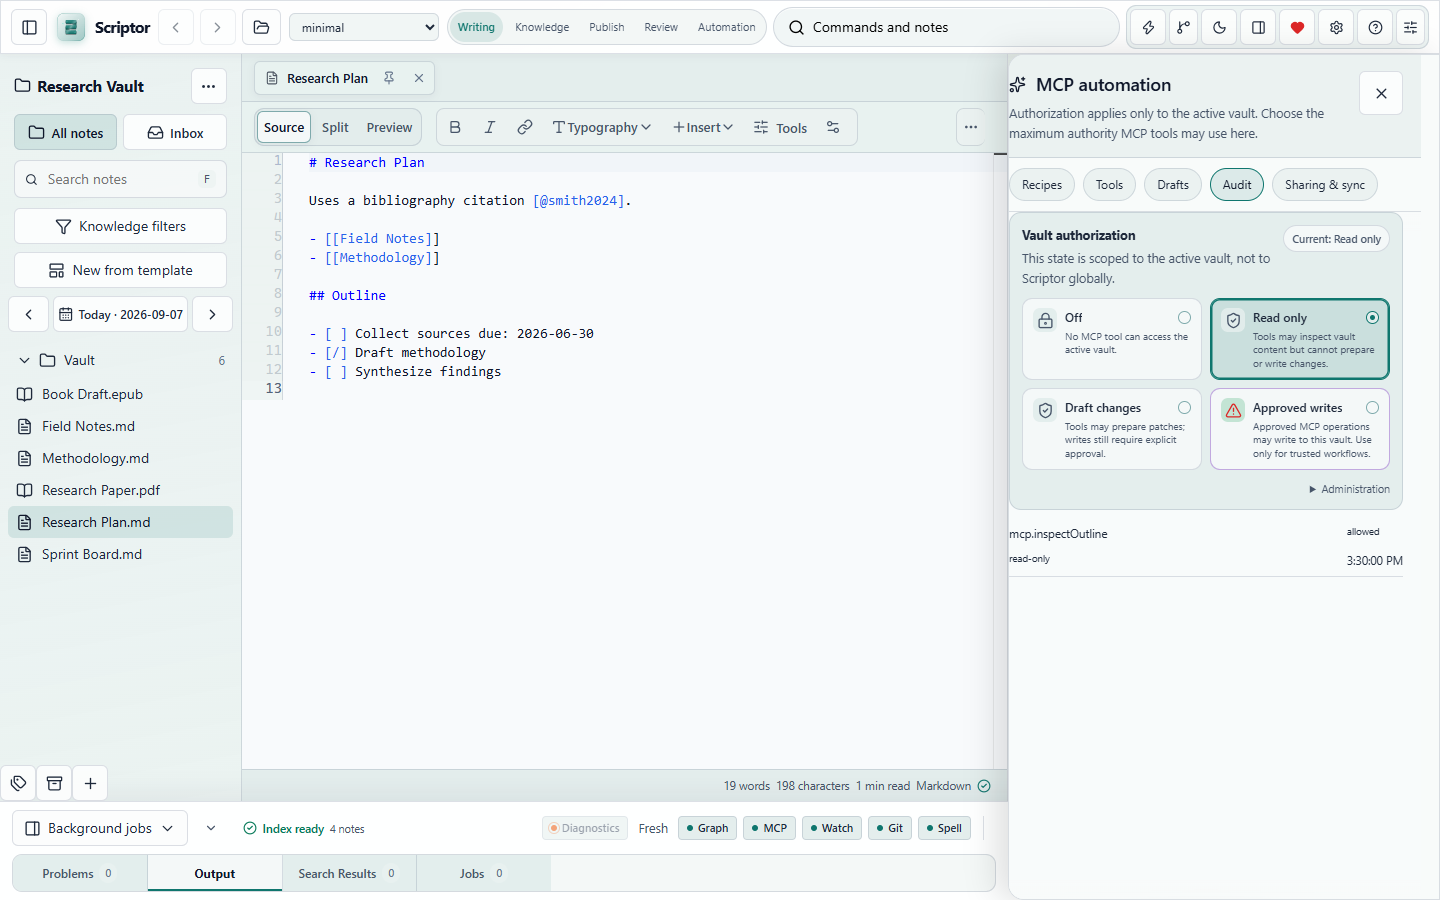
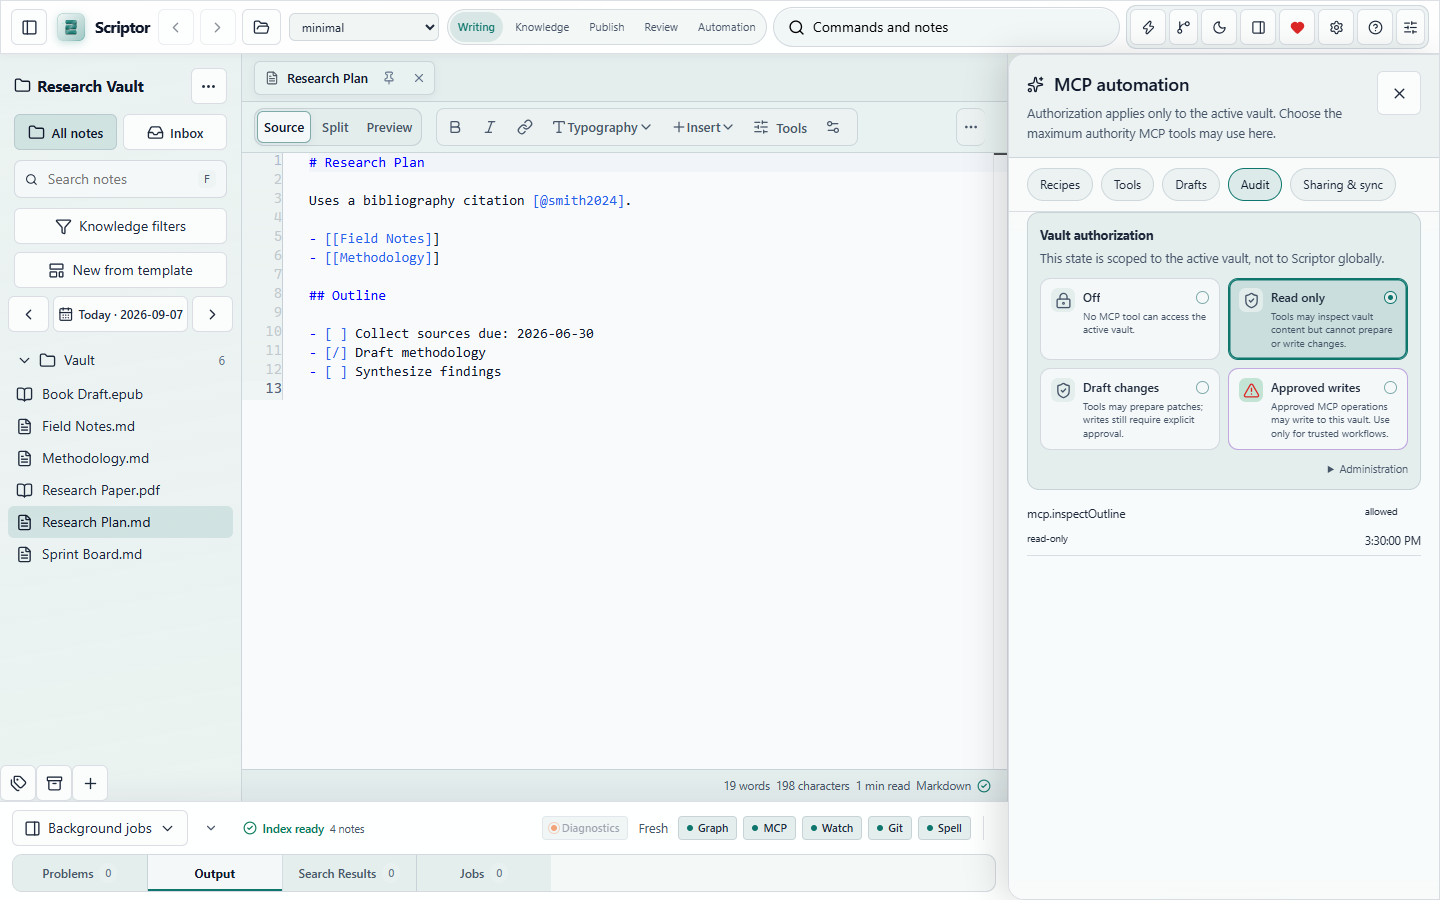
fix: make the MCP authorization level a real radiogroup
Finishes the MCP items from the visual audit.

The authorization level is a one-of-N choice, but it was built as four
independent `aria-pressed` toggle buttons inside a generic `role="group"`. A
screen reader therefore announced four unrelated switches instead of one setting
with a current value, and a `Current: Read only` badge existed only to restate in
prose what the control should have been conveying itself. It is now a
`role="radiogroup"` with `role="radio"` children, roving tabindex, and
arrow/Home/End navigation — the same shape the inspector preset row already uses.
Arrow keys key off the focused radio rather than the stored value, so the control
behaves predictably if focus and selection ever drift apart. The badge and its
now-unused `mcp.currentMode` key are removed; the selected card still states the
level visually.

Also bounds the tool result and gives it a copy control. The result box had no
maximum height, so a large result grew the docked panel until its content was cut
off at the viewport edge with nothing to indicate there was more below, and the
JSON could only be taken by selecting it by hand. It now scrolls within itself and
copies verbatim through the existing clipboard helper, which already handles both
the web and Tauri-native paths.

The recipe-card truncation the audit reported was not a separate defect: those
descriptions were clipped only because the docked panel was too narrow, which the
[…]

diff --git a/e2e/mcp-authorization-radiogroup.spec.ts b/e2e/mcp-authorization-radiogroup.spec.ts
@@ -1,0 +1,149 @@
+import { expect, test } from '@playwright/test'
+import type { Page } from '@playwright/test'
+
+import { launchApp, openCommandPalette, runCommand, waitForWorkspace } from './helpers'
+
+/**
+ * The MCP authorization level is a one-of-N choice, but it was built as a row of
+ * `aria-pressed` toggle buttons in a generic group. A screen reader therefore
+ * announced four independent switches instead of one setting with a current value,
+ * and a separate "Current: …" badge existed only to state in prose what the control
+ * should have been conveying itself. It is now a real radiogroup.
+ */
+async function openMcp(page: Page) {
+  await launchApp(page)
+  await waitForWorkspace(page)
+  await openCommandPalette(page)
+  await runCommand(page, 'Open MCP panel')
+  const panel = page.locator('.mcp-panel')
+  await expect(panel).toBeVisible({ timeout: 20_000 })
+  return panel
+}
+
+test('the authorization level is a radiogroup of radios', async ({ page }) => {
+  const panel = await openMcp(page)
+  const group = panel.locator('[role="radiogroup"]')
+  await expect(group).toHaveCount(1)
+  await expect(group).toHaveAttribute('aria-label', /.+/)
+
+  const radios = group.getByRole('radio')
+  await expect(radios).toHaveCount(4)
+
+  // Exactly one is checked, and it is the only one in the tab order — the roving
+  // tabindex a radiogroup requires, so Tab enters the group rather than walking it.
+  const state = await radios.evaluateAll((nodes) =>
+    nodes.map((n) => ({
+      checked: n.getAttribute('aria-checked'),
+      tabIndex: (n as HTMLElement).tabIndex,
+    })),
+  )
+  expect(state.filter((s) => s.checked === 'true')).toHaveLength(1)
+  expect(state.filter((s) => s.tabIndex === 0)).toHaveLength(1)
+  expect(state.find((s) => s.checked === 'true')?.tabIndex).toBe(0)
+
+  // No toggle-button semantics left over.
+  expect(await panel.getByRole('button', { pressed: true }).count()).toBe(0)
+})
+
+test('arrow keys move between authorization levels and commit the change', async ({ page }) => {
+  const panel = await openMcp(page)
+  const group = panel.locator('[role="radiogroup"]')
+  const radios = group.getByRole('radio')
+  await expect(radios).toHaveCount(4)
+
+  // Start from whichever level is actually current, rather than assuming which.
+  const checkedIndex = await radios.evaluateAll((nodes) =>
+    nodes.findIndex((n) => n.getAttribute('aria-checked') === 'true'),
+  )
+  expect(checkedIndex).toBeGreaterThanOrEqual(0)
+
+  await radios.nth(checkedIndex).focus()
+  await expect(radios.nth(checkedIndex)).toBeFocused()
+
+  // ArrowRight advances one level, focuses it, and makes it the checked one.
+  const nextIndex = (checkedIndex + 1) % 4
+  await page.keyboard.press('ArrowRight')
+  await expect(radios.nth(nextIndex)).toBeFocused()
+  await expect(radios.nth(nextIndex)).toHaveAttribute('aria-checked', 'true')
+  await expect(radios.nth(checkedIndex)).toHaveAttribute('aria-checked', 'false')
+
+  // ArrowLeft goes back.
+  await page.keyboard.press('ArrowLeft')
+  await expect(radios.nth(checkedIndex)).toBeFocused()
+  await expect(radios.nth(checkedIndex)).toHaveAttribute('aria-checked', 'true')
+
+  // End jumps to the last, Home back to the first.
+  await page.keyboard.press('End')
+  await expect(radios.nth(3)).toBeFocused()
+  await expect(radios.nth(3)).toHaveAttribute('aria-checked', 'true')
+
+  await page.keyboard.press('Home')
+  await expect(radios.nth(0)).toBeFocused()
+  await expect(radios.nth(0)).toHaveAttribute('aria-checked', 'true')
+
+  // The prose badge that duplicated the selection is gone.
+  await expect(panel.locator('.mcp-mode-summary')).toHaveCount(0)
+})
+
+test('the redundant current-level badge no longer renders', async ({ page }) => {
+  const panel = await openMcp(page)
+  // The checked radio states the current level; a second copy of the same sentence
+  // in the same viewport was the defect.
+  await expect(panel.locator('.mcp-mode-summary')).toHaveCount(0)
+  await expect(panel.getByText(/^Current:/)).toHaveCount(0)
+  // And the level is still plainly visible as the selected card.
+  await expect(panel.locator('.mcp-mode-option.active')).toHaveCount(1)
+})
+
+test('a tool result is bounded and can be copied verbatim', async ({ page, context }) => {
+  await context.grantPermissions(['clipboard-read', 'clipboard-write'])
+  const panel = await openMcp(page)
+
+  await panel.getByRole('tab', { name: 'Tools', exact: true }).click()
+  await panel.getByRole('combobox', { name: 'Tool', exact: true }).selectOption('mcp.inspectOutline')
+  await panel.getByRole('button', { name: 'Invoke tool', exact: true }).click()
+
+  const result = panel.locator('.mcp-result')
+  await expect(result).toBeVisible({ timeout: 20_000 })
+
+  // Bounded: the box scrolls internally rather than growing the docked panel until
+  // its content is cut off at the viewport edge.
+  const box = await result.evaluate((n) => {
+    const el = n as HTMLElement
+    return {
+      maxHeight: getComputedStyle(el).maxHeight,
+      overflowY: getComputedStyle(el).overflowY,
+      clientHeight: el.clientHeight,
+      scrollHeight: el.scrollHeight,
+    }
+  })
+  expect(box.overflowY).toBe('auto')
+  expect(box.maxHeight).not.toBe('none')
+
+  // A result large enough to overflow must actually be scrollable, not merely clipped.
+  const scrollable = box.scrollHeight > box.clientHeight
+  if (scrollable) {
+    expect(await result.evaluate((n) => (n as HTMLElement).scrollHeight > (n as HTMLElement).clientHeight)).toBe(true)
+  }
+
+  // Copying yields the same data as the box shows. Compared as parsed JSON rather
+  // than as raw strings: the rendered `<pre>` and the copied string are identical
+  // in content, but incidental whitespace between the two is not part of the
+  // contract and would make a byte comparison brittle.
+  const shown = (await result.textContent()) ?? ''
+  const copyButton = panel.getByRole('button', { name: 'Copy tool result as JSON' })
+  await expect(copyButton).toBeVisible()
+  await copyButton.click()
+  await expect(copyButton).toContainText('Copied')
+
+  const clipboard = await page.evaluate(() => navigator.clipboard.readText())
+  expect(clipboard.trim().length).toBeGreaterThan(0)
+  // A complete document, not the truncated fragment that was the original symptom.
+  expect(clipboard.trim().startsWith('{')).toBe(true)
+  expect(clipboard.trim().endsWith('}')).toBe(true)
+  expect(JSON.parse(clipboard)).toEqual(JSON.parse(shown))
+  // And it carries the result the tool actually returned.
+  const parsed = JSON.parse(clipboard) as { ok?: boolean; output?: { title?: string } }
+  expect(parsed.ok).toBe(true)
+  expect(parsed.output?.title).toBeTruthy()
+})

diff --git a/src/components/McpPanel.tsx b/src/components/McpPanel.tsx
@@ -1,12 +1,13 @@
-import { useMemo, useState } from 'react'
+import { useCallback, useMemo, useState } from 'react'
 import type { CommandResult, McpMode, McpToolDescriptor } from '@scriptor/core'
-import { AlertTriangle, LockKeyhole, Server, ShieldCheck, Sparkles } from 'lucide-react'
+import { AlertTriangle, Check, Copy, LockKeyhole, Server, ShieldCheck, Sparkles } from 'lucide-react'
 
 import type { DraftPatch } from '@scriptor/mcp'
 import { McpDraftDiffEditor } from './editor/McpDraftDiffEditor'
 import { MCP_RECIPES } from '../lib/mcpRecipes'
 import { UnifiedPanelShell } from './chrome/UnifiedPanelShell'
 import type { PanelPresentation } from '../hooks/usePanelPresentation'
+import { writeClipboardText } from '../lib/clipboardText'
 import { useI18n } from '../lib/i18n'
 import { ResourceSyncPanel } from './ResourceSyncPanel'
 import '../styles/components/mcp-panel.css'
@@ -106,11 +107,57 @@ export function McpPanel({
   const [inputJson, setInputJson] = useState(TOOL_DEFAULTS['mcp.search'])
   const [expandedDraftId, setExpandedDraftId] = useState<string | null>(null)
   const [draftBefore, setDraftBefore] = useState<Record<string, string>>({})
+  const [resultCopied, setResultCopied] = useState(false)
+
+  // Pretty-printed once so the visible text and the copied text are byte-identical.
+  const resultText = useMemo(() => (lastResult ? JSON.stringify(lastResult, null, 2) : ''), [lastResult])
+
+  const copyResult = useCallback(async () => {
+    if (!resultText) return
+    try {
+      await writeClipboardText(resultText)
+      setResultCopied(true)
+      window.setTimeout(() => setResultCopied((current) => (current ? false : current)), 1800)
+    } catch {
+      // Clipboard unavailable — the result is still selectable in the box below.
+    }
+  }, [resultText])
 
   const effectiveTool = useMemo(
     () => tools.find((tool) => tool.name === selectedTool) ?? tools[0],
     [selectedTool, tools],
   )
+
+  const modeIds = useMemo(() => MODES.map((entry) => `mcp-mode-${entry}`), [])
+
+  /**
+   * Arrow/Home/End navigation for the authorization radiogroup.
+   *
+   * A one-of-N choice belongs in a radiogroup, not a row of independent toggle
+   * buttons: as `aria-pressed` toggles a screen reader announced four unrelated
+   * switches rather than one setting with a current value. Mirrors the inspector
+   * preset row, which is the same shape of control.
+   */
+  const handleModeKeys = (event: React.KeyboardEvent<HTMLDivElement>) => {
+    // Arrow from the focused radio, not from the stored value. Roving tabindex
+    // normally keeps the two identical, but keying off focus means the control
+    // still behaves predictably if they ever drift apart.
+    const focusedIndex = modeIds.findIndex((id) => document.activeElement?.id === id)
+    const current = focusedIndex >= 0 ? focusedIndex : MODES.indexOf(mode)
+    if (current < 0) return
+    let next = -1
+    if (event.key === 'ArrowRight' || event.key === 'ArrowDown') next = (current + 1) % MODES.length
+    else if (event.key === 'ArrowLeft' || event.key === 'ArrowUp') {
+      next = (current - 1 + MODES.length) % MODES.length
+    } else if (event.key === 'Home') next = 0
+    else if (event.key === 'End') next = MODES.length - 1
+    if (next === -1) return
+    event.preventDefault()
+    const target = MODES[next]
+    if (!target) return
+    onModeChange(target)
+    document.getElementById(modeIds[next] ?? '')?.focus()
+  }
 
   const noToolsState = (
     <div className="plugin-empty-graphic">
@@ -144,18 +191,27 @@ export function McpPanel({
               <h3 id="mcp-authorization-heading">{t('mcp.authorizationHeading')}</h3>
               <p className="health-subtitle">{t('mcp.authorizationScope')}</p>
             </div>
-            <span className={`mcp-mode-summary is-${MODE_META[mode].risk}`} role="status">
-              {t('mcp.currentMode', { mode: t(MODE_META[mode].labelKey) })}
-            </span>
           </div>
-          <div className="mcp-mode-row" role="group" aria-label={t('mcp.authorizationLevelAria')}>
-            {MODES.map((entry) => {
+          {/* The current level is stated by the checked radio below, which is how a
+              radiogroup is meant to report a one-of-N value. A "Current: …" badge
+              here repeated that fact in the same viewport, and the role it carried
+              was the only thing making the summary readable — now redundant. */}
+          <div
+            className="mcp-mode-row"
+            role="radiogroup"
+            aria-label={t('mcp.authorizationLevelAria')}
+            onKeyDown={handleModeKeys}
+          >
+            {MODES.map((entry, index) => {
               const meta = MODE_META[entry]
               const checked = mode === entry
               return (
                 <button
                   type="button"
-                  aria-pressed={checked}
+                  role="radio"
+                  id={modeIds[index]}
+                  aria-checked={checked}
+                  tabIndex={checked ? 0 : -1}
                   key={entry}
                   className={checked ? 'mcp-mode-option active' : 'mcp-mode-option'}
                   data-risk={meta.risk}
@@ -280,9 +336,25 @@ export function McpPanel({
                 </div>
 
                 {lastResult ? (
-                  <pre className="mcp-result" aria-live="polite">
-                    {JSON.stringify(lastResult, null, 2)}
-                  </pre>
+                  <div className="mcp-result-block">
+                    <div className="mcp-result-actions">
+                      <span className="health-subtitle">Result</span>
+                      {/* A tool result is JSON the user usually needs verbatim, so it
+                          gets a copy control rather than being selected by hand. */}
+                      <button
+                        type="button"
+                        className="toolbar-button"
+                        aria-label="Copy tool result as JSON"
+                        onClick={() => void copyResult()}
+                      >
+                        {resultCopied ? <Check size={14} aria-hidden="true" /> : <Copy size={14} aria-hidden="true" />}
+                        {resultCopied ? 'Copied' : 'Copy'}
+                      </button>
+                    </div>
+                    <pre className="mcp-result" aria-live="polite">
+                      {resultText}
+                    </pre>
+                  </div>
                 ) : null}
               </>
             )

diff --git a/src/styles/components/mcp-panel.css b/src/styles/components/mcp-panel.css
@@ -32,22 +32,6 @@
   margin: 0;
 }
 
-.mcp-mode-summary {
-  flex: 0 0 auto;
-  padding: 4px 8px;
-  border: 1px solid var(--border);
-  border-radius: 999px;
-  background: var(--surface-raised);
-  color: var(--muted);
-  font-size: 11px;
-  font-weight: 600;
-}
-
-.mcp-mode-summary.is-write {
-  border-color: color-mix(in oklch, var(--warning, var(--primary)) 45%, var(--border));
-  color: var(--warning, var(--primary-strong));
-}
-
 .mcp-mode-row {
   display: grid;
   /* Adapt to the docked panel width, not just the browser viewport. */
@@ -235,13 +219,30 @@
   box-shadow: var(--focus-ring);
 }
 
+/* Bounded so a large tool result scrolls inside its own box instead of growing the
+   docked panel until its content is cut off at the viewport edge with no indication
+   that anything is below. */
 .mcp-result {
   margin: 0;
   padding: 10px;
+  max-height: 40vh;
   border-radius: 8px;
   background: var(--surface);
   font-size: 12px;
   overflow: auto;
+}
+
+.mcp-result-block {
+  display: grid;
+  gap: 6px;
+  min-width: 0;
+}
+
+.mcp-result-actions {
+  display: flex;
+  align-items: center;
+  justify-content: space-between;
+  gap: 8px;
 }
 
 .mcp-drafts ul,

diff --git a/e2e/screenshots.spec.ts b/e2e/screenshots.spec.ts
@@ -123,7 +123,9 @@ async function invokeMcpOutlineForShot(page: Page) {
   await runCommand(page, 'Open MCP panel')
   const panel = page.locator('.mcp-panel')
   await expect(panel).toBeVisible()
-  await expect(panel.getByRole('button', { name: /^Read only/ })).toHaveAttribute('aria-pressed', 'true')
+  // The authorization level is a one-of-N radiogroup, so the current level is the
+  // checked radio rather than a pressed toggle button.
+  await expect(panel.getByRole('radio', { name: /^Read only/ })).toHaveAttribute('aria-checked', 'true')
   await panel.getByRole('tab', { name: 'Tools', exact: true }).click()
   await panel.getByRole('combobox', { name: 'Tool', exact: true }).selectOption('mcp.inspectOutline')
   await expect(panel.getByRole('textbox', { name: 'Input JSON' })).toHaveValue(/Research Plan\.md/)

diff --git a/CHANGELOG.md b/CHANGELOG.md
@@ -25,6 +25,9 @@
 - Keep the status strip one row so the bottom dock never grows two lines. Three separate rules each let the footer wrap: the narrow-viewport band forced the repo-state onto its own full-width row, the docked-panel contract did the same whenever a companion panel like MCP was open, and the repo-state itself was allowed to flex-wrap. The result was a strip of two or three lines, with the vault name dropping below the status pills. The summary keeps all four of its children on one row, the repo-state may no longer wrap, and the vault identity is dropped when space is tight because the sidebar header already names the vault.
 - Report the footer subsystem badges' pressed state in the same sense as they are painted. `aria-pressed` meant the opposite of the badge's own appearance, so a screen reader announced "pressed" for whichever looked switched off — and disagreed with the diagnostics pill in the same row.
 
+- Make the MCP authorization level a real radiogroup. It was four independent `aria-pressed` toggle buttons in a generic group, so a screen reader announced four switches rather than one setting with a current value, and a `Current: Read only` badge existed only to restate in prose what the control should have conveyed itself. It is now `role="radiogroup"` with `role="radio"` children, roving tabindex and arrow/Home/End navigation, and the badge is gone.
+- Bound the MCP tool result and give it a copy control. The result box had no maximum height, so a large result grew the docked panel until its content was cut off at the viewport edge with nothing to indicate there was more below, and there was no way to take the JSON without selecting it by hand. The box now scrolls within itself and copies verbatim, reusing the existing clipboard helper.
+
 ## 1.2.8 — 2026-09-26
 
 ### Fixed
